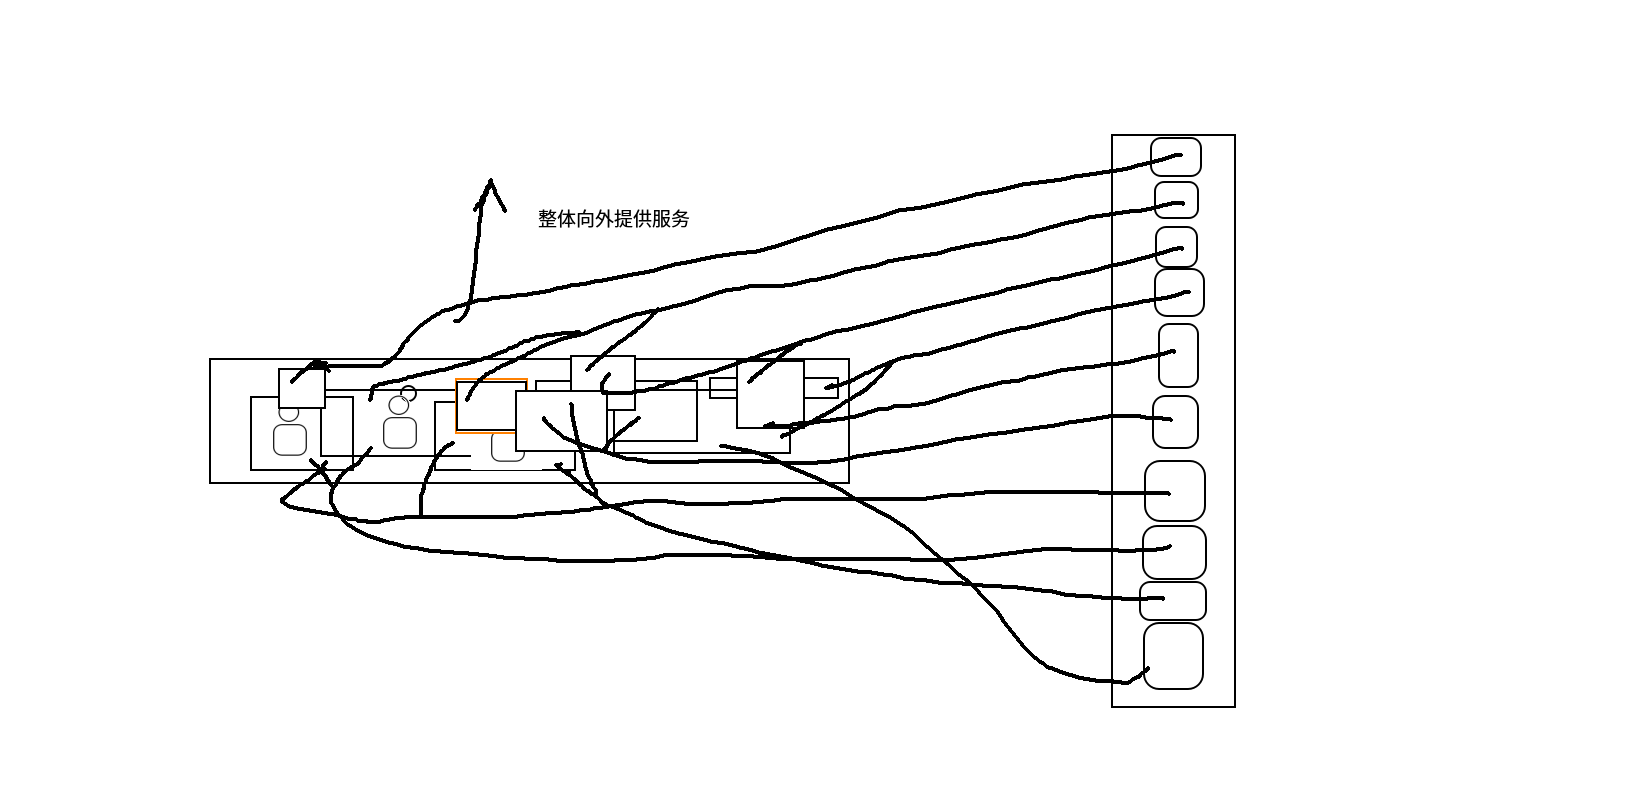
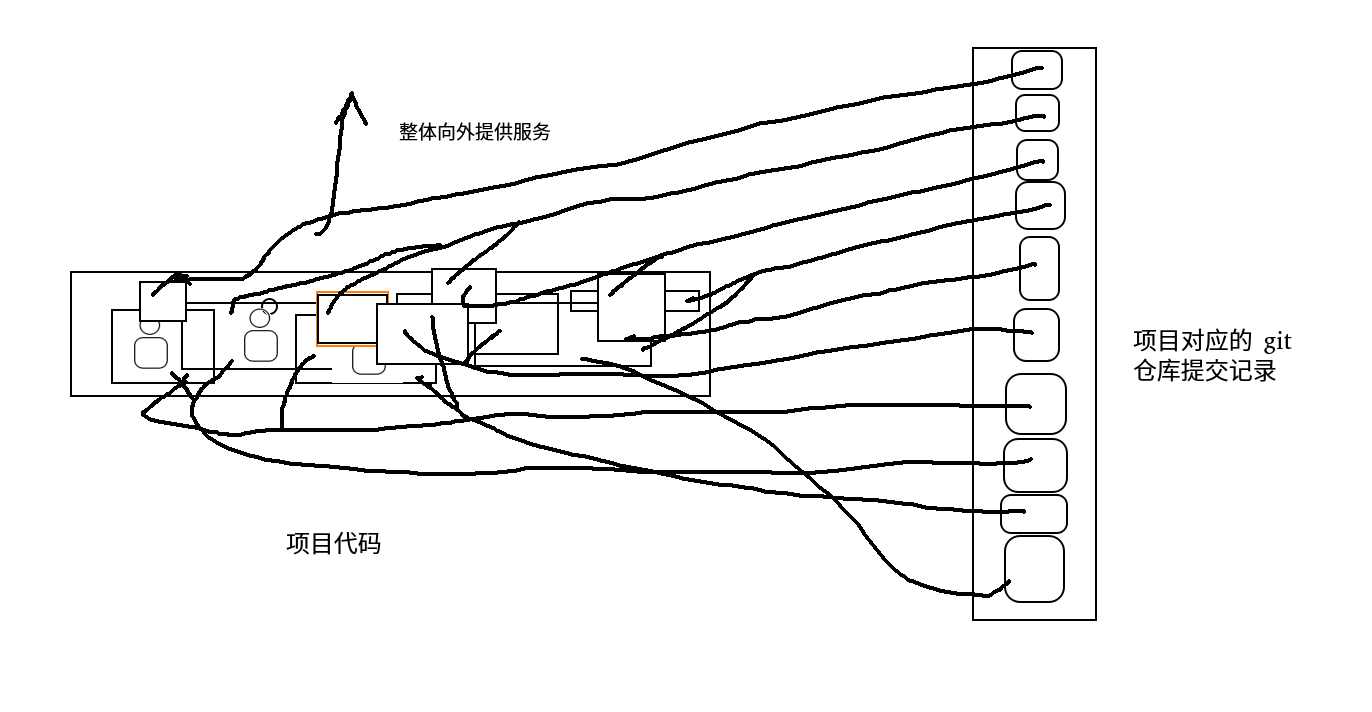
git installation and usage update

diff --git a/backend/003_git_installation_and_usage.md b/backend/003_git_installation_and_usage.md
@@ -31,8 +31,40 @@ sudo apt install git
 
 ## git中的概念
 
-为了实现可追溯的链条
+![git命令图示](./imgs/003_git_concepts_02.png "Git命令及各环节流转") 
 
-![git命令图示](./imgs/003_git_concepts_02.png "Git命令及各环节流转")
+为了实现可追溯的链条，git 中包含了几个概念。
+
+大家可以看这张图，我们把上一张图里 项目对应的 Git 仓库提交记录横过来展示了，现在左上角的这个躺着的是由一次次的提交记录组成的仓库。整个仓库直接保存在我们本地的磁盘上面，
+
+1. 整个仓库可以来自于某个远端仓库，比如 github 里的 [https://github.com/chalver/book.git](https://github.com/chalver/book.git) 仓库，我们可以直接 `git clone remote-repository` 到我们的本地；
+1. 除此之外呢我们也可以在我们的工作目录直接通过 `git init` 命令初始化一个本地的仓库。
+
+大家可以看到 workspace 就是我们正常编写内容的工作区域。当我们打开一个由 git 管理的项目的时候，里面可能已经包含了很多的代码，而且代码是以文件的形式分模块存在的。我们可能会在已有的某几个模块修改已有的函数或者提交几个新的函数，为了把我们修改的内容提交到 git 仓库，我们首先需要把我们的修改 `git add` 到 stage 暂存空间，我们可以每修改一点内容都 `git add` 到整个空间，从而为我们创建新的 commit 提交做准备。
+
+在 stage 空间，工作区域分散在各处的修改点被整合到一起。我们可以通过 `git status` 命令查看 stage 空间里暂存的内容。
+
+当我们对工作区域的修改感到满意了，把内容全部添加到缓存区，那么我们就可以通过 `git commit` 来把我们的修改提交到本地仓库了。这里我们可以通过在 `git commit -m "本次提交的内容"` 后添加注释来注明本地提交了什么内容。
+
+如果我们本地的仓库来自于一个远端仓库，或者我们本地初始化的仓库配置了对应的远端仓库，我们可以通过 `git push` 来把本地仓库的更新同步到远端仓库。
+
+当多人协作的时候，可能出现多人同时编写同一个仓库的情况，我们 `git push` 本地仓库的时候可能远端的仓库已经被别人更新过了，此时我们就没有办法 push 仓库了。不过整个时候我们可以通过 `git pull` 来 merge 别人的更改，这样就可以继续 push 我们的代码到远端了。
+
+
+git 中还存在分支的概念，尤其在多人协作的时候尤其重要。不过这部分的内容比较复杂且对开发者的实践要求比较高，我会在后面的课程里再单独拎出来介绍。大家可以先尝试熟练掌握本节的内容。
 
 ### 在 vscode 中使用 git
+
+vscode 天然集成了 git 环境，在安装 git 工具以后就可以通过左边的版本控制按钮来到对应的界面。
+
+我们可以通过 vscode 里提供的图形界面进行上面提到的各项操作，也可以在 vscode 的 terminal 里手动输入各个命令进行操作。
+
+我个人比较习惯通过命令行的方式操作，避免点错按钮（有的按钮挨着比较近，一个不小心可能导致自己丢失辛辛苦苦修改的内容）。大家可以根据喜好做选择，不过如果大家选择图形界面进行操作，建议大家多多练习一下。
+
+
+大家可以通过查看 output 标签来查看图形界面每个操作的具体 git 命令，大家可以看到我们的一个按钮可能引发这么多的 git 命令的执行。里面有很多的命令可能是我们根本不会手动去敲的，因此不推荐大家去看它，不过在大家对 git 的感知到了某个境界以后，可以通过这里的内容进行探索，比如了解一下各个命令的实际作用，尝试打开另外一个世界的大门。
+
+### 在 vscode 中实战 git 工具
+
+1. 通过命令行实战
+1. 通过图形界面实战
